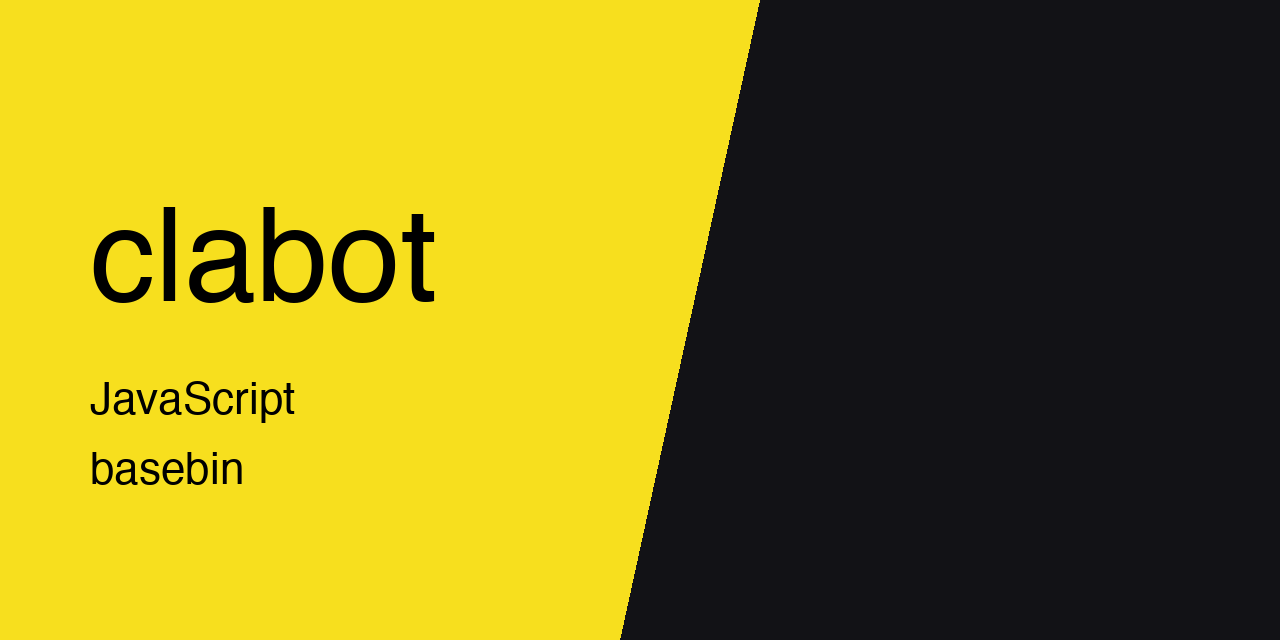
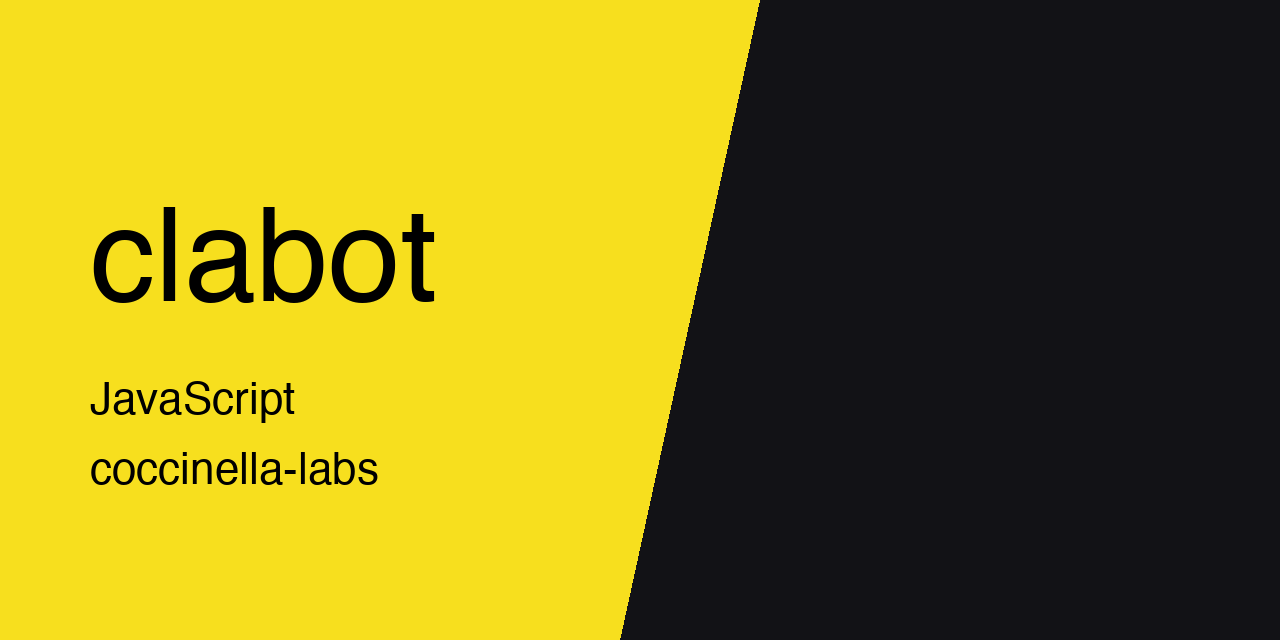
[docs] move thumbnail to coccinella-labs

Changed region(s): [[0.0625, 0.7188, 0.3125, 0.7812]]

diff --git a/README.md b/README.md
@@ -1,5 +1,5 @@
 <p align="center">
-  <img src="https://raw.githubusercontent.com/basebin/clabot/main/.github/assets/thumbnail.png" alt="clabot" width="100%">
+  <img src="https://raw.githubusercontent.com/Coccinella-Labs/clabot/main/.github/assets/thumbnail.png" alt="clabot" width="100%">
 </p>
 
 # CLA Bot
